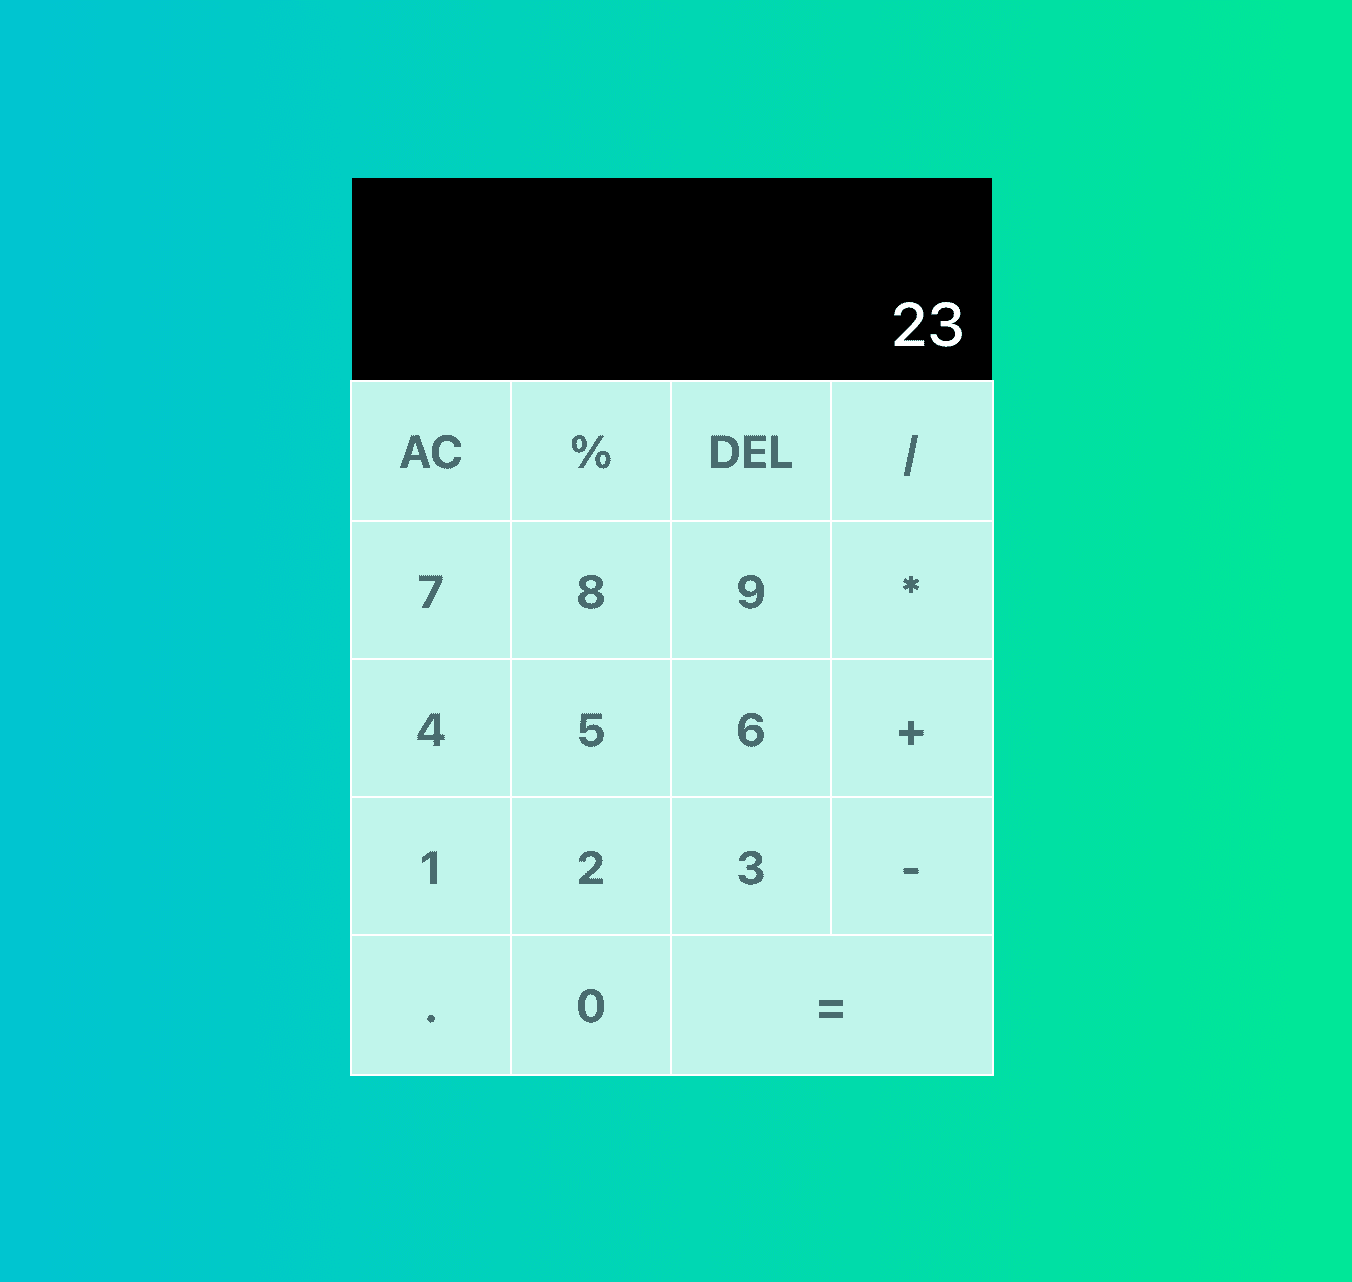
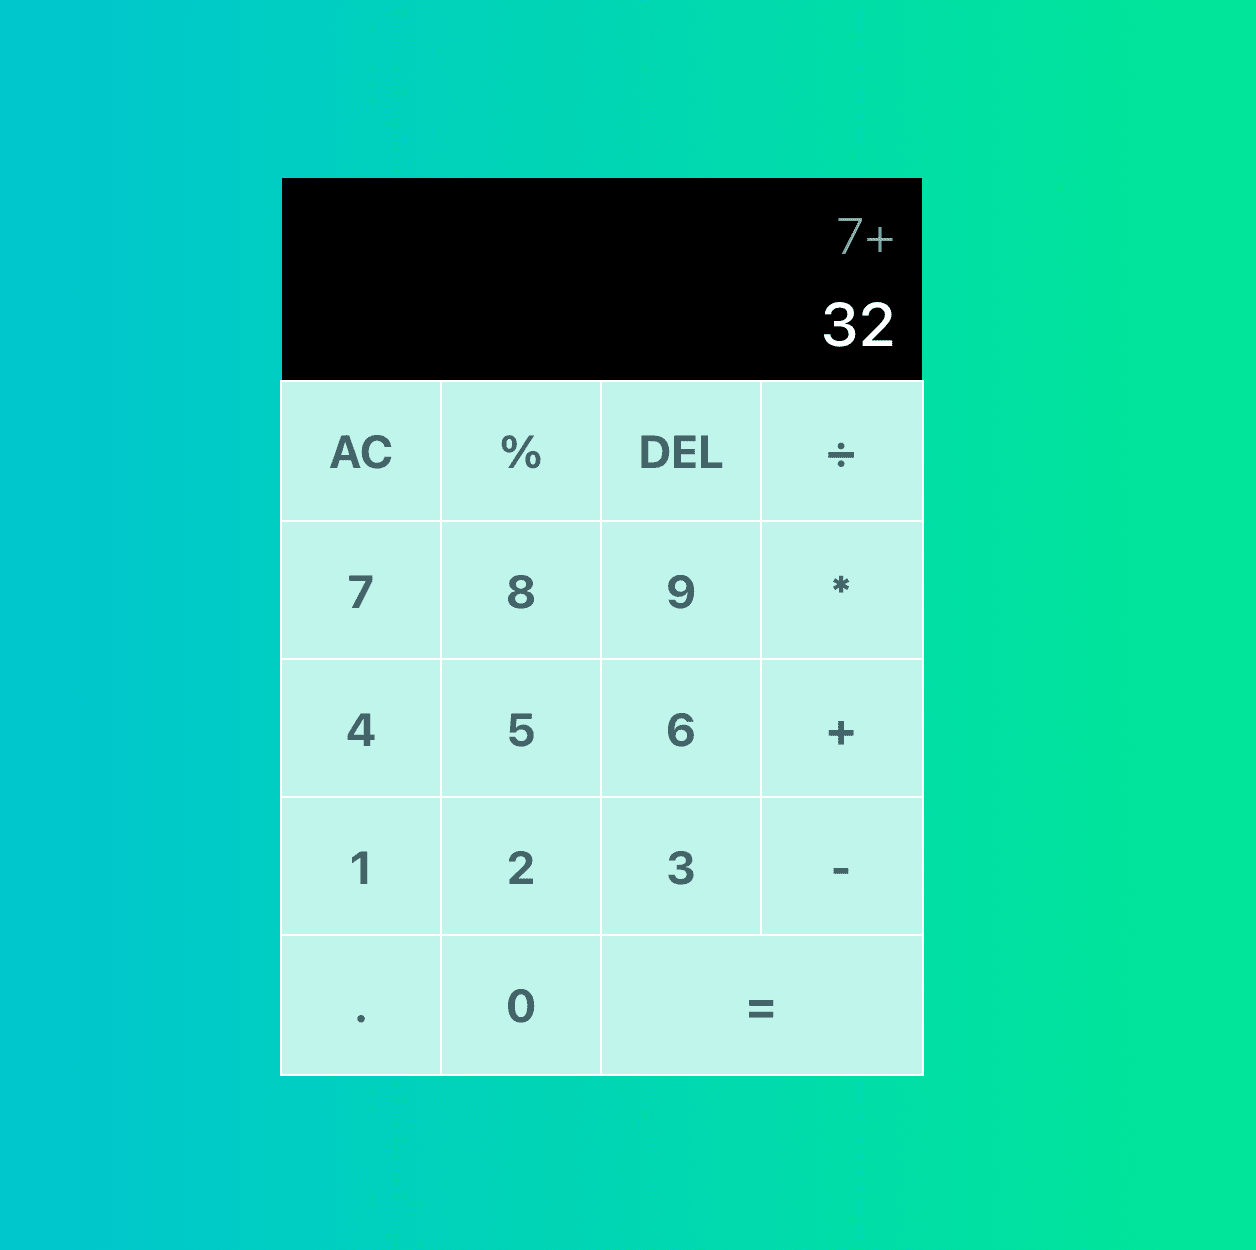
picture preview upd

diff --git a/src/App.js b/src/App.js
@@ -2,7 +2,6 @@ import React from 'react';
 import './css/App.css';
 import Button from './components/button/button';
 import Input from './components/input/input';
-import ClearButton from './components/clear-button/clear-button';
 
 import { observer } from 'mobx-react';
 
@@ -16,7 +15,7 @@ const App = observer(() => {
       <div className="calc-wrapper">
         <Input input={store.input} result={store.result}></Input>
         <div className="row">
-          <ClearButton onClick={() => store.handleOnClear()}>AC</ClearButton>
+          <Button onClick={() => store.handleOnClear()}>AC</Button>
           <Button onClick={() => store.handleOnPercent()}>%</Button>
           <Button onClick={() => store.handleOnDelete()}>DEL</Button>
           <Button onClick={store.addToInput}>÷</Button>
